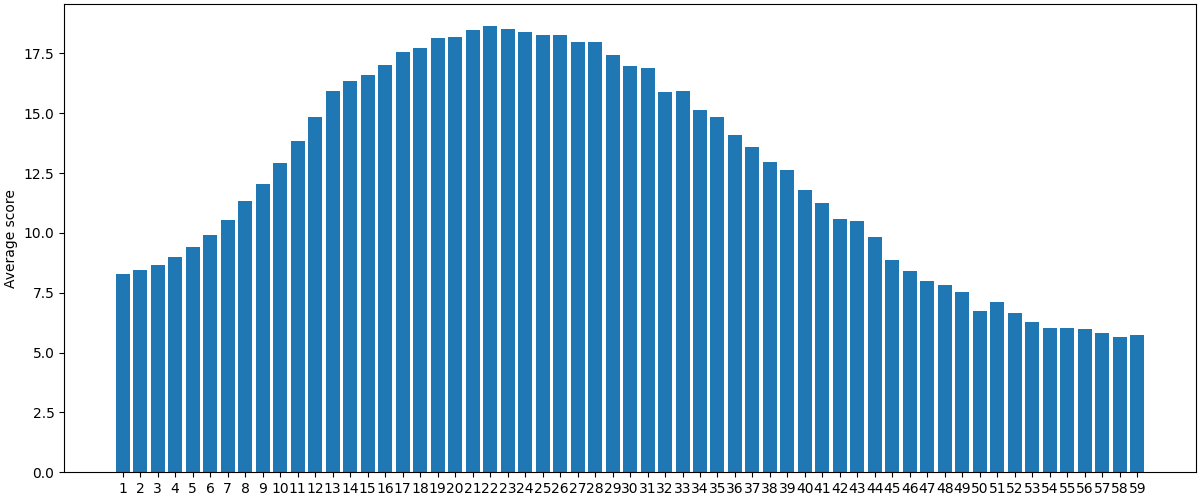
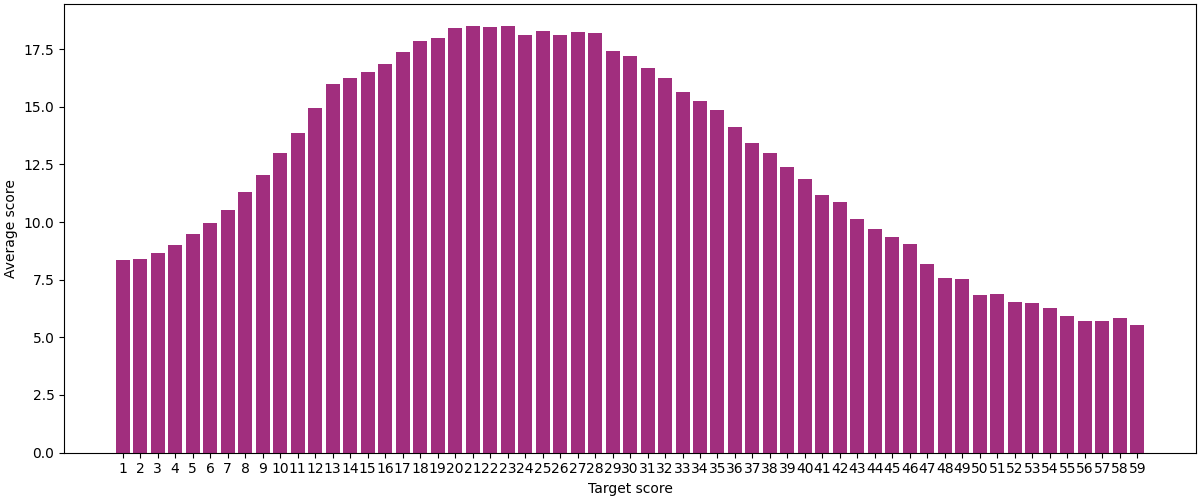
Finished flip 7 post

diff --git a/assets/code/exploring-flip-7-strategies/target_n.py b/assets/code/exploring-flip-7-strategies/target_n.py
@@ -1,36 +1,45 @@
 
 from simplified_game import SimplifiedFlip7
 import matplotlib.pyplot as plt
+import random
 
 # Samples per target score
 SAMPLES = 10000
 TARGET_SCORES = range(1, 60)
+SEED = 42
 
-average_scores = []
+def do_experiment(*, all_cards: bool = True, plot_color: str = "#a12e7e",
+filename: str = "output.png", remove_cards: int = 0) -> None:
+    random.seed(SEED)
+    average_scores = []
+    for target_score in TARGET_SCORES:
+        busts = 0
+        score_sum = 0
+        for _ in range(SAMPLES):
+            game = SimplifiedFlip7()
+            if not all_cards:
+                game.remove_random_cards(remove_cards)
+            while (len(game.hand) < 7 and not game.busted and game.score <
+            target_score):
+                game.take_card()
+            if game.busted:
+                busts += 1
+            score_sum += game.score
+        print("Target:", target_score)
+        print("Busts:", busts / SAMPLES * 100, "%")
+        print("Average score:", score_sum / SAMPLES)
+        print()
+        average_scores.append(score_sum / SAMPLES)
+    fig, ax = plt.subplots(layout="constrained")
 
-for target_score in TARGET_SCORES:
-    busts = 0
-    score_sum = 0
-    for _ in range(SAMPLES):
-        game = SimplifiedFlip7()
-        while (len(game.hand) < 7 and not game.busted and game.score <
-        target_score):
-            game.take_card()
-        if game.busted:
-            busts += 1
-        score_sum += game.score
+    ax.set_xlabel("Target score")
+    ax.set_ylabel("Average score")
+    ax.bar(range(len(TARGET_SCORES)), average_scores, color=plot_color)
+    ax.set_xticks(range(len(TARGET_SCORES)), TARGET_SCORES)
+    fig.set_size_inches(12, 5)
+    fig.set_dpi(120)
+    plt.savefig(filename)
 
-    print("Target:", target_score)
-    print("Busts:", busts / SAMPLES * 100, "%")
-    print("Average score:", score_sum / SAMPLES)
-    print()
-    average_scores.append(score_sum / SAMPLES)
-
-fig, ax = plt.subplots(layout="constrained")
-
-ax.set_ylabel("Average score")
-rects = ax.bar(range(len(average_scores)), average_scores)
-ax.set_xticks(range(len(average_scores)), TARGET_SCORES)
-fig.set_size_inches(12, 5)
-fig.set_dpi(120)
-plt.savefig("target_n.png")
+do_experiment(all_cards=True, filename="target_n.png", remove_cards=0)
+do_experiment(all_cards=False, filename="target_n_70_removed.png", remove_cards=60)
+do_experiment(all_cards=False, filename="target_n_60_removed.png", remove_cards=70)

diff --git a/assets/code/exploring-flip-7-strategies/is_next_move_worth_it.py b/assets/code/exploring-flip-7-strategies/is_next_move_worth_it.py
@@ -1,25 +1,43 @@
 
 from simplified_game import SimplifiedFlip7
 import matplotlib.pyplot as plt
+import random
 
 def worth_it(game: SimplifiedFlip7) -> bool:
     expected_score = (1.0 - game.bust_chance) * (game.score + game.no_bust_average)
     return game.score < expected_score
 
 SAMPLES = 10000
+REMOVE_CARDS = range(73)
+SEED = 42
 
+random.seed(SEED)
 average_scores = []
 
-busts = 0
-score_sum = 0
-for _ in range(SAMPLES):
-    game = SimplifiedFlip7()
-    while len(game.hand) < 7 and not game.busted and worth_it(game):
-        game.take_card()
-    if game.busted:
-        busts += 1
-    score_sum += game.score
+for remove_cards in REMOVE_CARDS:
+    busts = 0
+    score_sum = 0
+    for _ in range(SAMPLES):
+        game = SimplifiedFlip7()
+        game.remove_random_cards(remove_cards)
+        while len(game.hand) < 7 and not game.busted and worth_it(game):
+            game.take_card()
+        if game.busted:
+            busts += 1
+        score_sum += game.score
 
-print("Busts:", busts / SAMPLES * 100, "%")
-print("Average score:", score_sum / SAMPLES)
-print()
+    print("Cards removed:", remove_cards)
+    print("Busts:", busts / SAMPLES * 100, "%")
+    print("Average score:", score_sum / SAMPLES)
+    print()
+    average_scores.append(score_sum / SAMPLES)
+
+fig, ax = plt.subplots(layout="constrained")
+
+ax.set_xlabel("Removed cards (total cards = 79)")
+ax.set_ylabel("Average score")
+ax.bar(range(len(REMOVE_CARDS)), average_scores, color="#a12e7e")
+ax.set_xticks(range(len(REMOVE_CARDS)), REMOVE_CARDS)
+fig.set_size_inches(12, 5)
+fig.set_dpi(120)
+plt.savefig("is_next_move_worth_it.png")

diff --git a/assets/code/exploring-flip-7-strategies/simplified_game.py b/assets/code/exploring-flip-7-strategies/simplified_game.py
@@ -25,6 +25,15 @@ class SimplifiedFlip7:
         else:
             self.hand.append(card)
 
+    def remove_random_cards(self, amount: int) -> None:
+        cards = []
+        for value, count in enumerate(self.counts):
+            cards += [value] * count
+        random.shuffle(cards)
+        for card in cards[:amount]:
+            self.counts[card] -= 1
+            self.total -= 1
+
     @property
     def bust_chance(self) -> float:
         if self.busted:

diff --git a/collections/_posts/2025-09-08-exploring-flip-7-strategies.md b/collections/_posts/2025-09-08-exploring-flip-7-strategies.md
@@ -3,7 +3,9 @@ layout: post
 title: "Exploring Flip 7 Strategies"
 date: 2025-09-08 19:00:00 +0200
 tags: Game Strategy Simulation
-accent_color: "#eb3bb6"
+accent_color: "#cd2a9c"
+front_image: /assets/code/exploring-flip-7-strategies/flip_7.jpg
+thumbnail: /assets/code/exploring-flip-7-strategies/flip_7.jpg
 ---
 
 When a game has "the greatest card game of all time" on the box it has to be good, right? That was exactly my thought process when buying the game [Flip 7](https://boardgamegeek.com/boardgame/420087/flip-7), which is a card game released in 2024. The game involves players betting to gain as many points as possible without "busting", which happens when a player grabs two identical cards. Although the game mainly involves luck, there can be some interesting strategies.
@@ -37,11 +39,11 @@ To make our lives easier, we will simplify the game a bit. We'll remove any of t
 
 Now that we've simplified the game, let's start off with a simple strategy. One of the friends I've played flip 7 with suggested a strategy that would target 30 points. Once this thredhold was reached, he would pass and collect his points.
 
-So I ran some code to simulate his strategy on 10,000 games. And it turns out... The average score is only 17.0, which is a lot lower than I had expected. Surprisingly, using him strategy you would bust about 49.6% of the time. That's almost half the time! But... Is there a different number he could have chosen that would work better? Well I tried it, and put the results below.
+So I ran some code to simulate his strategy on 10,000 games. And it turns out... The average score is only 17.2, which is a lot lower than I had expected. Surprisingly, using him strategy you would bust about 49.0% of the time. That's almost half of the time! But... Is there a different number he could have chosen that would work better? Well I tried it, and put the results below.
 
 ![Targeting a specific score before passing](/assets/code/exploring-flip-7-strategies/target_n.png)
 
-As it turns out the target number of 30 is already pretty good, but it is slightly better to choose the lower target number of 22. Then you could expect an average score of 18.6, busting 28.5% of the time.
+As it turns out the target number of 30 is already pretty good, but it is slightly better to choose the lower target number of 21. Then you could expect an average score of 18.5, busting 25.2% of the time.
 
 However, I do feel like in the actual game his scores were better. This is likely due to the bonus and action cards being in play, and because he would not always abide by his "stop at 30" rule, taking the other players' actions into account. As it turns out, this game can be pretty complicated!
 
@@ -55,4 +57,25 @@ $$
     (1 - B) (S + A) > S
 $$
 
-Surely this must work pretty well, I thought. At every point in time we will see if we should continue or not, which is much smarter than taking a specific target number. Well... I was wrong. This strategy performed about the same as targeting a score of 22, with an average score 18.7 (0.1 higher) and a 30.3% bust rate.
+Surely this must work pretty well, I thought. At every point in time we will see if we should continue or not, which is much smarter than taking a specific target number. Well... I was wrong. This strategy performed about the same as targeting a score of 22, with an average score of 18.7 (0.1 higher) and a 30.3% bust rate.
+
+## ...Or Do They?!
+
+Despertate to justify my complicated strategy, I thought of one situation where it does work well: When there are very few cards left in play! The "stop at 21" strategy performs about the same when 70 out of the 79 cards are removed from the game:
+
+![Targeting a specific score before passing with 70 cards removed](/assets/code/exploring-flip-7-strategies/target_n_70_removed.png)
+
+The "Is the next card worth it?" strategy, however, peforms much better as the number of cards left decreases. There is more information to take advantage of in this situation!
+
+!["Is the next card worth it?" strategy with different numbers of cards removed](/assets/code/exploring-flip-7-strategies/is_next_move_worth_it.png)
+
+Even then... Most of the game you won't have a couple cards left in the deck, so the impact of this strategy won't be that big... *\*sigh\**
+
+## Conclusion
+
+So this is where my little experiment ends. There's clearly still much more to explore: New strategies, action cards, keeping track of other players, etc. But that's for you to explore :)
+
+Either way, it seems the "stop at 21" rule seems like an easy-to-remember and good enough strategy for most players. Every now and you can then adapt to the cards in play. Now you just have to deal with your opponents get luckier than you...
+
+If you'd like to look at the source code and run the experiments yourself, I've posted the code on GitHub:
+{% include center-button.html icon="link" text="Source code" href="https://github.com/dirckvdende/dirckvdende.github.io/tree/main/assets/code/exploring-flip-7-strategies" %}
